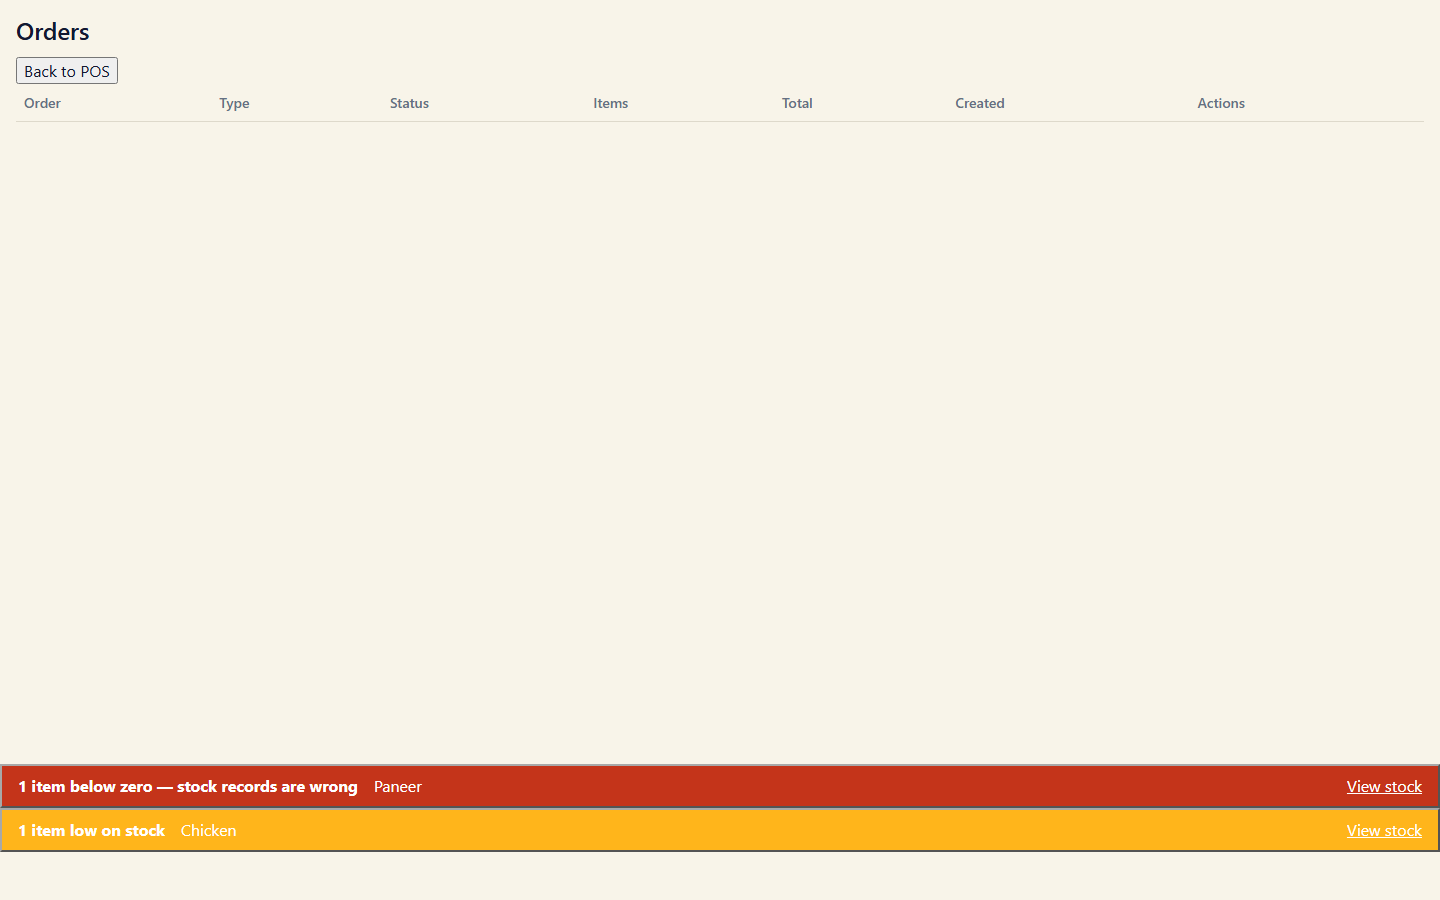
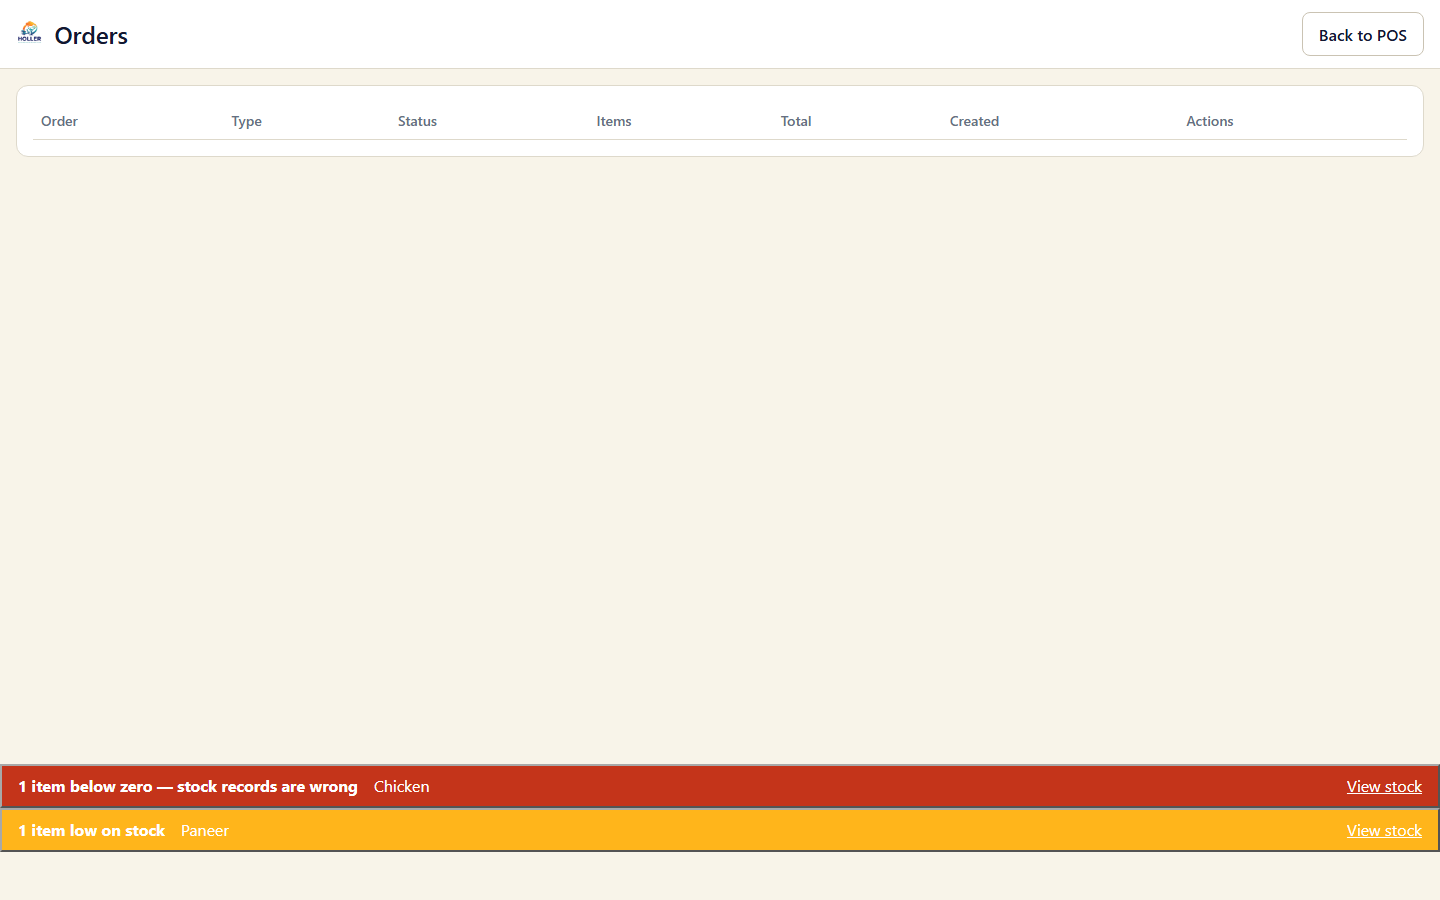
docs(demo-screens): re-capture order-list/billing/current-stock after T19
Re-screenshot the three demo-story screens changed by the .btn/.holler-header/
.card pass (commit a628461): OrderListScreen (plain + KOT panel expanded +
empty), BillingScreen (full invoice, one card per section), CurrentStockScreen
(header with seven nav actions plus Back, card around the table). Driven by a
throwaway Playwright harness (not part of this repo) against a real `pnpm dev`
server, with window.__TAURI_INTERNALS__.invoke mocked with contract-shaped
fixtures and every screen asserted on its own unique content before capture --
never a bare page.goto reload after login, which drops the in-memory-only
useAuthStore. Full 11-file set MD5-hashed afterward to confirm no two files
are byte-identical; the set and per-file notes are in index.md.

Honestly recorded as not done: AggregatorOrdersScreen, PurchaseReturnScreen
and ReceivingScreen only gained .money spans (no layout change, per task
scope) and were not re-screenshotted; pos-billing-upi-qr.png, pos-crash-screen.png,
pos-grn-gaps.png and kds-ticket.png are unchanged carry-overs from the T14 pass.

Claude-Session: https://claude.ai/code/session_01MaG9XPvUs2rtAbtEF8yzNp

diff --git a/docs/demo-screens/index.md b/docs/demo-screens/index.md
@@ -1,4 +1,62 @@
-# Demo screens — presentability check (T14 follow-up)
+# Demo screens — presentability check (T14 follow-up, T19 controls/header pass)
+
+## T19 update (2026-09-11)
+
+T14 adopted the colour tokens (`.money`, status colours, the logo on
+`PosScreen`) but left the *controls* on raw browser defaults and the
+sub-screens with no header at all. T19 closes that: `.btn`/`.btn--primary`/
+`.btn--danger` on every control on `OrderListScreen`, `BillingScreen` and
+`CurrentStockScreen`; `.holler-header` (same logo, same position as
+`PosScreen`) on all three; their content grouped into `.card` blocks
+separated by `--space-5` (`.screen-body`); and the three screens honestly
+left un-`.money`'d by T14 — `AggregatorOrdersScreen`, `PurchaseReturnScreen`,
+`ReceivingScreen` — now carry it on every money cell. No fetch, command or
+displayed value changed anywhere; layout and class names only.
+
+Five files below were **re-captured** in this pass, driven by a fresh
+`browser-check`-style harness (`shoot.mjs`, throwaway, not part of this
+repository — same discipline as T14's: real `pnpm dev` server, real
+Chromium, `window.__TAURI_INTERNALS__.invoke` mocked with contract-shaped
+fixtures, every screen asserted on its own unique content before capture,
+never a bare `page.goto` reload after login (that drops the in-memory-only
+`useAuthStore`), and the whole set MD5-hashed afterward to prove no two
+files are byte-identical:
+
+| File | Screen | What changed |
+|---|---|---|
+| `pos-order-list.png` | Order List | `.holler-header` (logo + title), `.card` around the table, `.btn`/`.btn--primary` on every action |
+| `pos-order-list-kots.png` | Order List, KOT panel expanded | Same header/card/button pass; KOT status-transition buttons now `.btn` |
+| `pos-order-list-empty.png` | Order List, zero orders | Confirms the header/card treatment holds with an empty table body |
+| `pos-billing.png` | Billing, full invoice | `.holler-header`, every section (Cash Shift / Bill / Invoice / Payments / Take Payment) now its own `.card`, `--space-5` between them, `.btn--primary` on Issue Bill / Record Payment(s), `.btn--danger` on Void/Refund |
+| `pos-current-stock.png` | Current Stock | `.holler-header` (logo + title + seven nav actions + Back, wrapping on this one row deliberately — see `.current-stock-screen .holler-header` in `index.css`), `.card` around the table |
+
+`pos-billing-upi-qr.png`, `pos-crash-screen.png`, `pos-receiving.png`,
+`pos-purchase-return.png`, `pos-grn-gaps.png` and `kds-ticket.png` are
+**unchanged files from the T14 pass**, kept for their MD5s below. Layout on
+`ReceivingScreen` and `PurchaseReturnScreen` was not touched by T19 (only
+`.money` spans were added, per the task's explicit "layout only" scope for
+the three finish-`.money` screens) and `AggregatorOrdersScreen` still has no
+screenshot of its own, same gap T14 recorded.
+
+**MD5 set, this pass** (`md5sum docs/demo-screens/*.png`):
+
+```
+898c22bafbb4ebf8493362c8d8c2f332  kds-ticket.png
+f69af7491d769204905582bb38c62088  pos-billing.png
+7acadd1008c32911ba0bb771846b827e  pos-billing-upi-qr.png
+6e3528a35bd33115d797d72d165d94de  pos-crash-screen.png
+887b0c7e3e1224f744da1bf38f3d4f03  pos-current-stock.png
+a0b782731c989abddf2905651cd371c2  pos-grn-gaps.png
+ca2946ee5e1d61fa4322571e789dc47f  pos-order-list.png
+1c85a41d8a44bc23c94f071c7561425f  pos-order-list-empty.png
+d2c0985bacbad90897a2d8803a9ce3db  pos-order-list-kots.png
+db1c969ea99617e31c16bd260d68b162  pos-purchase-return.png
+1cbd58a26aca8c5292ad7308cb417461  pos-receiving.png
+```
+
+Eleven files, eleven distinct hashes.
+
+
 
 Screenshots of the screens the demo touches, taken after the T14 token
 adoption pass, in Chromium (1440x900) against each app's real `pnpm dev`
